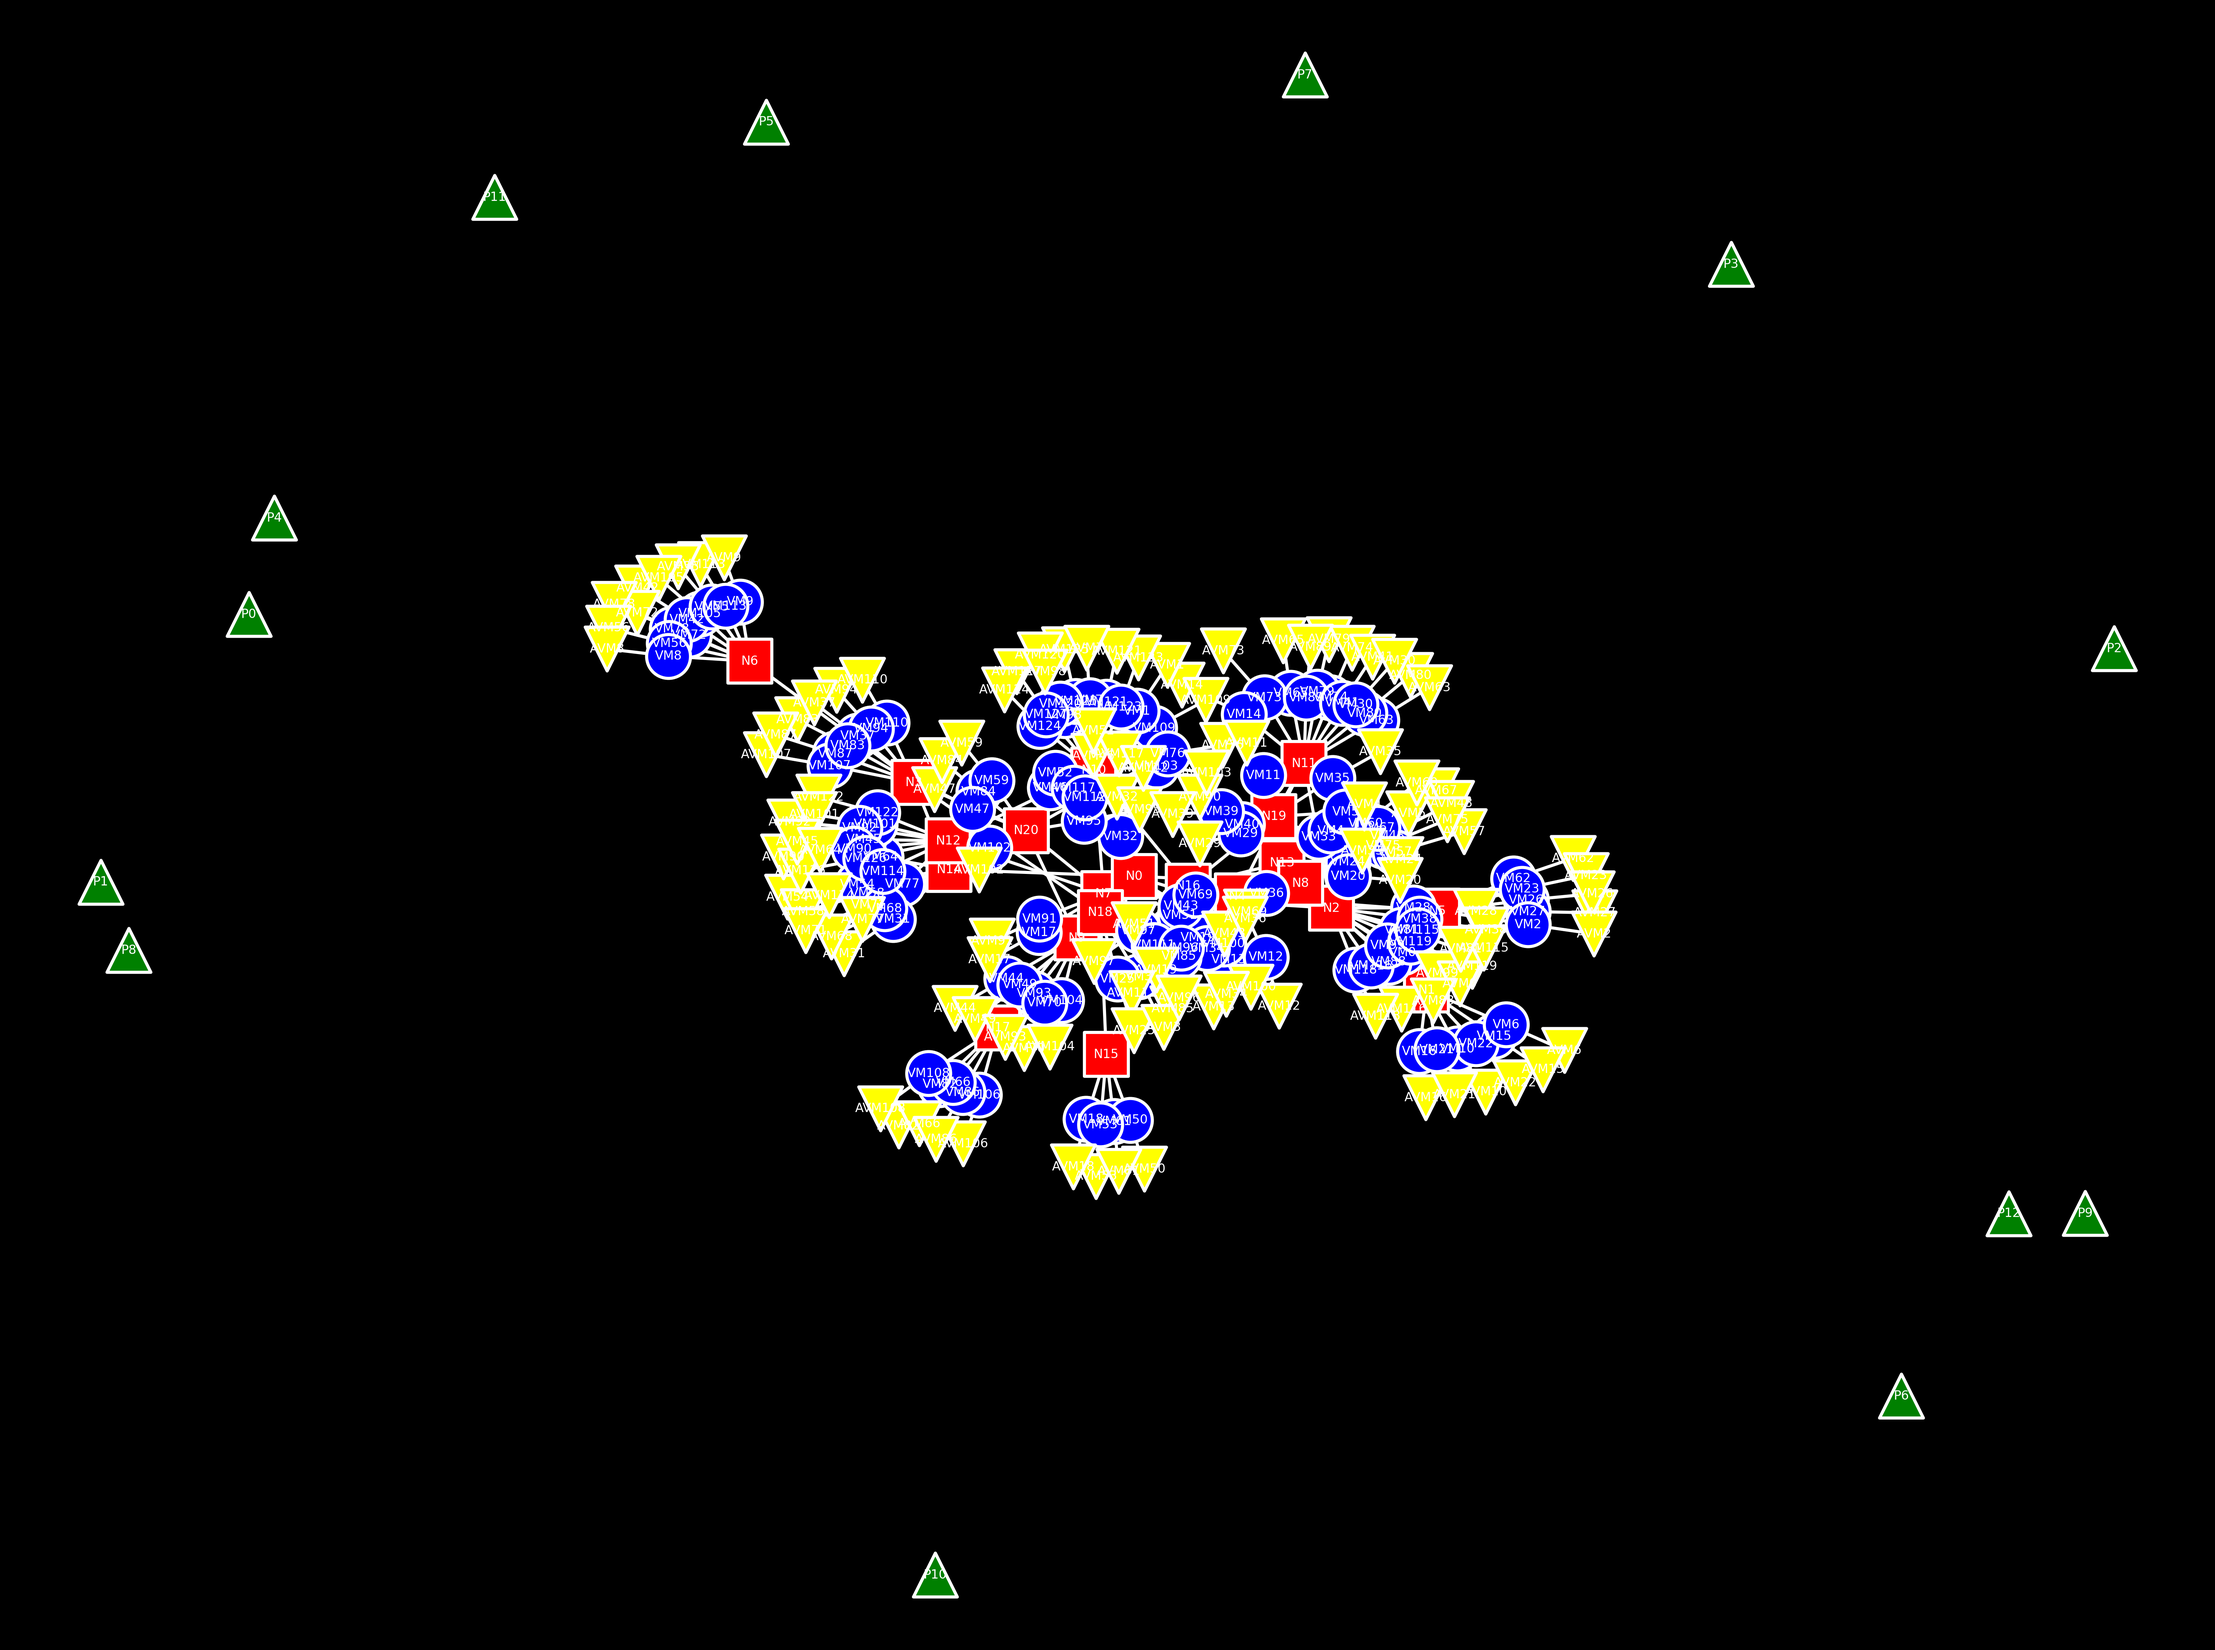
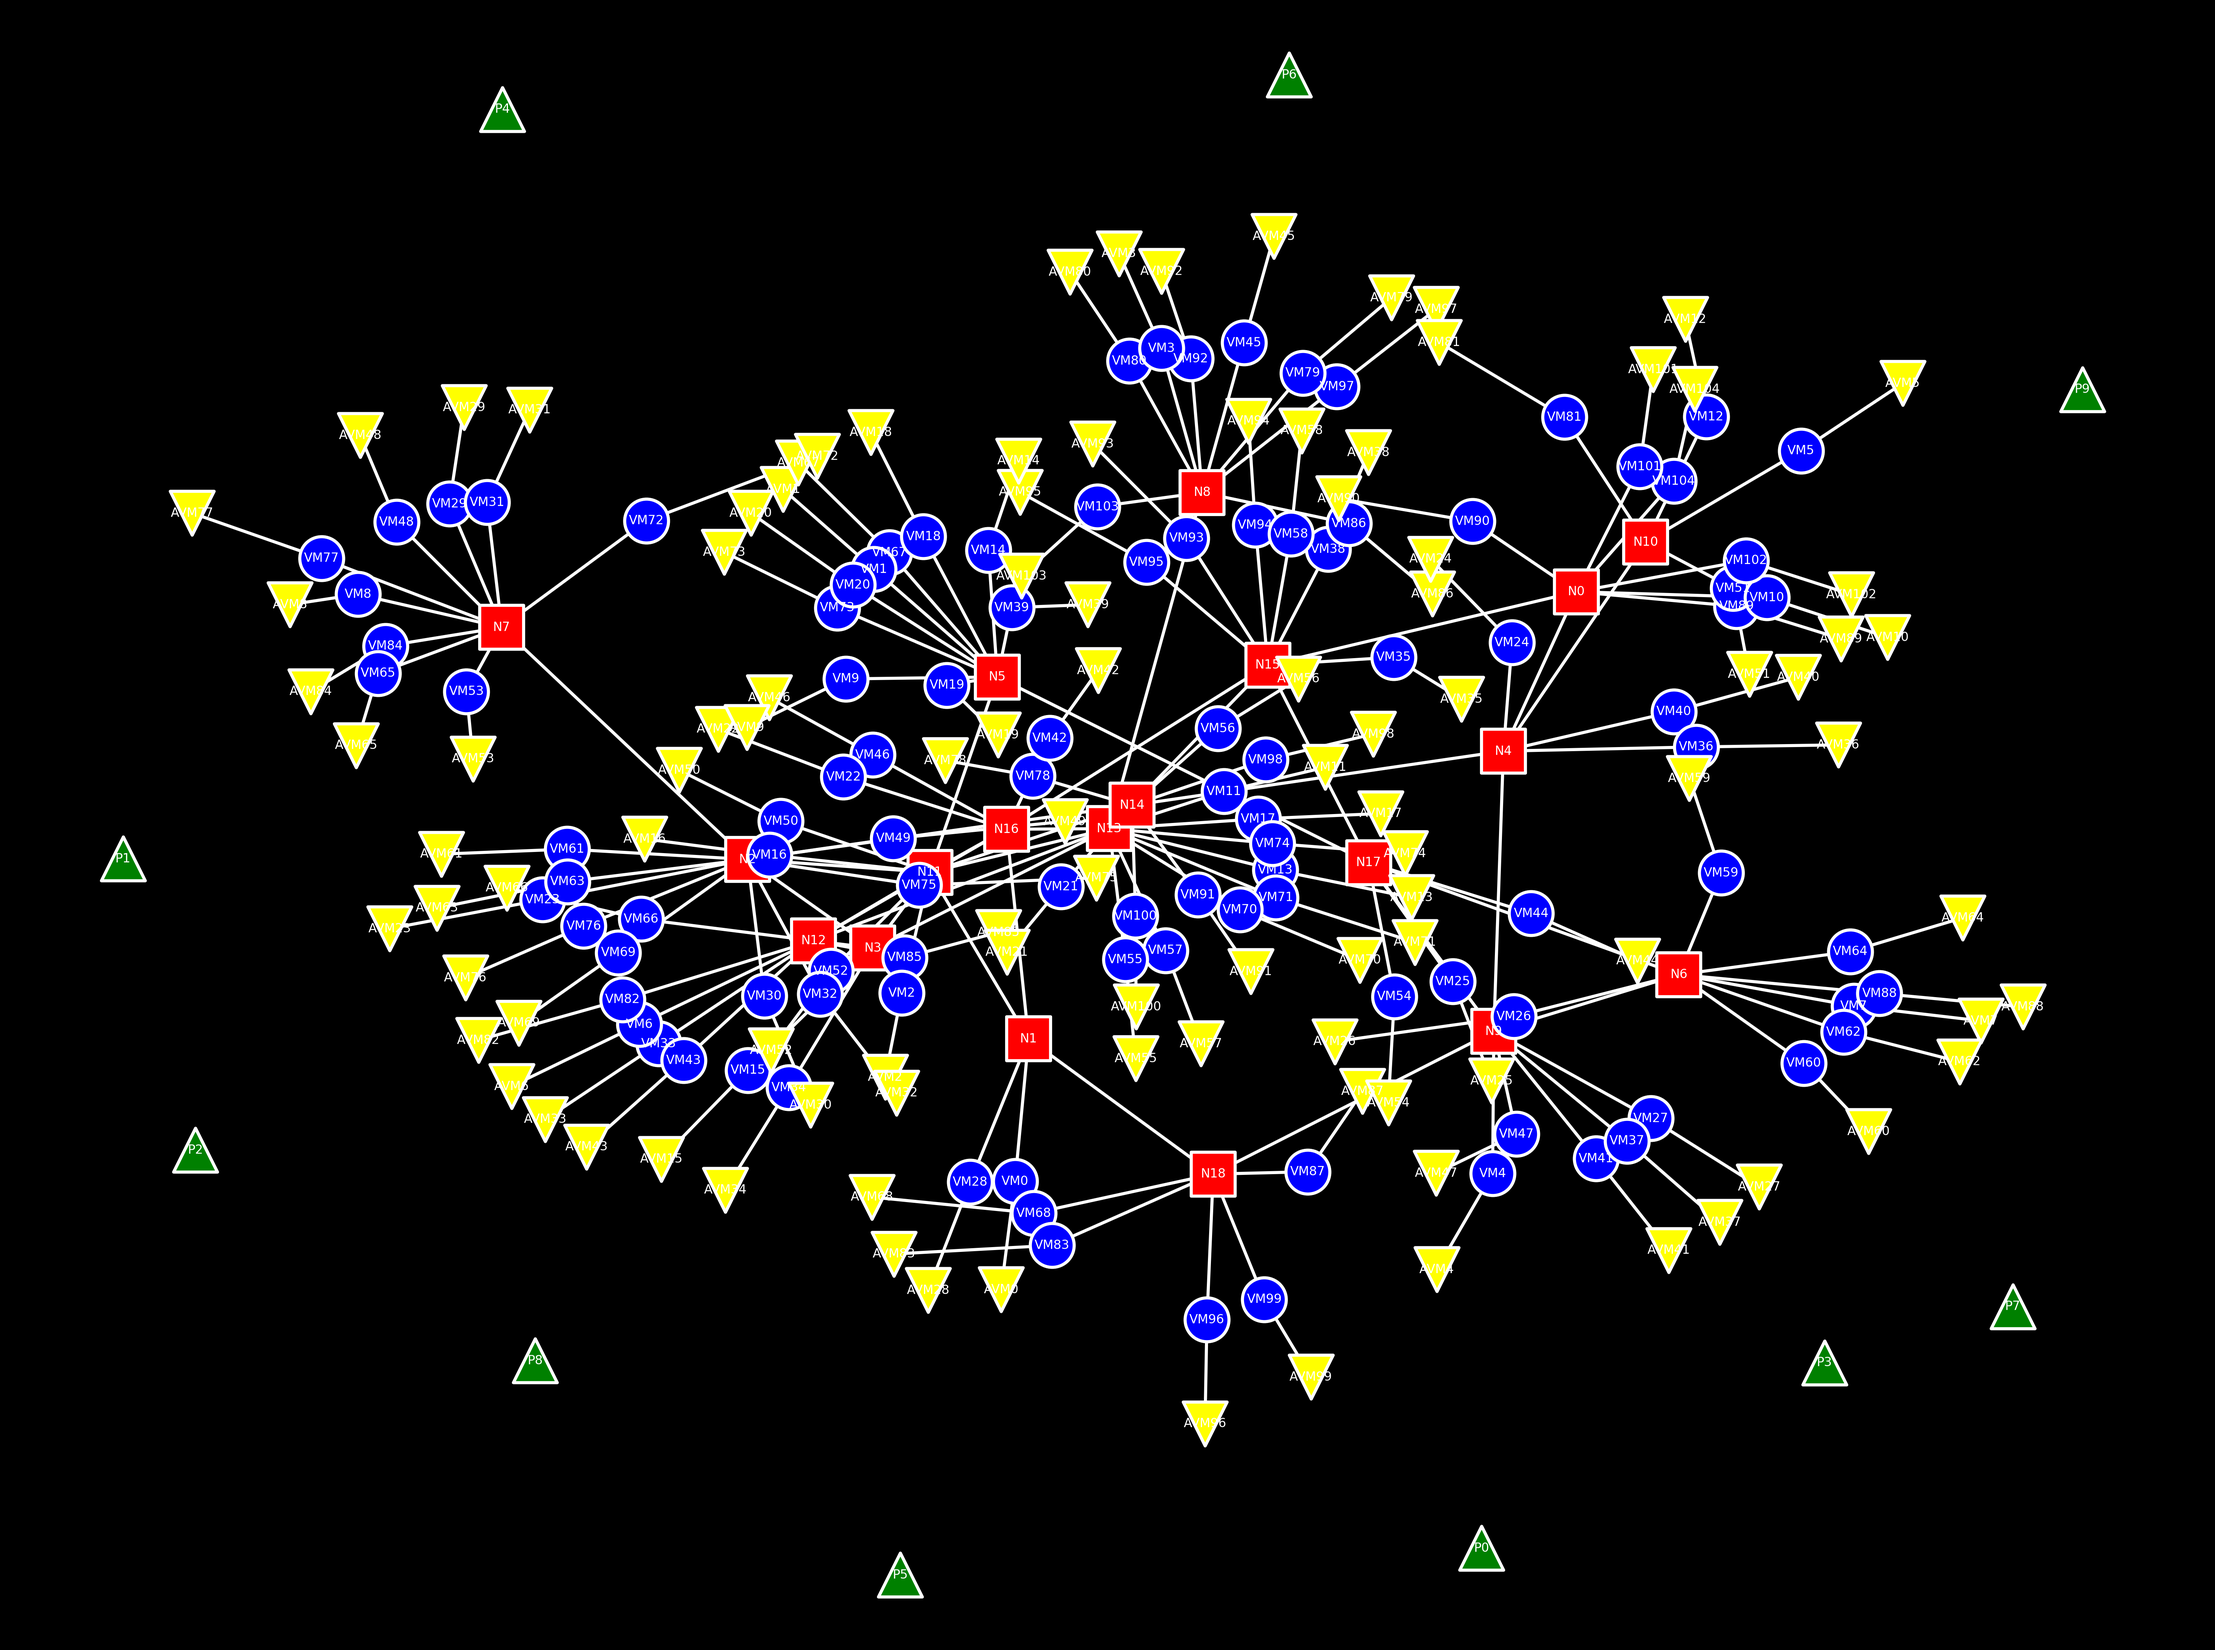
Halfway through refactoring.

diff --git a/mal_sampler.py b/mal_sampler.py
@@ -10,9 +10,11 @@ import matplotlib.pyplot as plt
 class Asset:
     def __init__(self, name: str):
         self.name = name
+        self.n_associated_assets = dict()
+        self.associated_assets = dict()
 
-    def log_probability(self):
-        return float('-inf')
+    def accepts(self, asset_type: str):
+        return len(self.associated_assets[asset_type]) < self.n_associated_assets[asset_type]
 
     def print(self):
         print(self.name)
@@ -21,20 +23,23 @@ class Asset:
 class Network(Asset):
     def __init__(self, name: str):
         super().__init__(name)
-        self.n_networks = 1 + binom(n=500, p=0.005).rvs()
-        self.networks = set()
-        self.n_vm_instances = 1 + binom(n=1000, p=0.005).rvs()
-        self.vm_instances = set()
+        # self.n_networks = 1 + binom(n=500, p=0.005).rvs()
+        # self.networks = set()
+        # self.n_vm_instances = 1 + binom(n=1000, p=0.005).rvs()
+        # self.vm_instances = set()
+        self.n_associated_assets['network'] = 1 + binom(n=500, p=0.005).rvs()
+        self.n_associated_assets['vm_instance'] = 1 + binom(n=1000, p=0.005).rvs()
+        self.associated_assets['network'] = set()
+        self.associated_assets['vm_instance'] = set()
 
-    def accepts_network(self):
-        return len(self.networks) < self.n_networks
+    # def accepts_network(self):
+    #     return len(self.networks) < self.n_networks
 
-    def accepts_vm_instance(self):
-        return len(self.vm_instances) < self.n_vm_instances
+    # def accepts_vm_instance(self):
+    #     return len(self.vm_instances) < self.n_vm_instances
 
     def print(self):
-        print(
-            f'Network: {self.name}. Associated networks: {[an.name for an in self.networks]}. Associated VM instances: {[ah.name for ah in self.vm_instances]}')
+        print(f"Network: {self.name}. Associated networks: {[an.name for an in self.associated_assets['network']]}. Associated VM instances: {[ah.name for ah in self.associated_assets['vm_instance']]}")
 
 
 class VMInstance(Asset):
@@ -55,21 +60,40 @@ class VMInstance(Asset):
         print(
             f'VMInstance: {self.name}. Networks: {[nw.name for nw in self.networks]}')
 
+
 class Principal(Asset):
     def __init__(self, name: str):
         super().__init__(name)
+        self.n_admins = 1
+        self.admins = set()
+
+    def accepts_admin(self):
+        return len(self.admins) < self.n_admins
+
 
 class Role(Asset):
     def __init__(self, name: str):
         super().__init__(name)
+        self.vm_instances = set()
+        self.principals = set()
+
 
 class ComputeOSAdminLogin(Role):
     def __init__(self, name: str):
         super().__init__(name)
+        self.n_vm_instances = 1
+        self.n_principal = 1 + binom(n=5, p=0.1).rvs()
+
+    def accepts_principal(self):
+        return len(self.principals) < self.n_principal
+
 
 class ComputeOSLogin(Role):
     def __init__(self, name: str):
         super().__init__(name)
+        self.n_vm_instances = binom(n=30, p=0.5).rvs()
+        self.n_principal = 1 + binom(n=5, p=0.1).rvs()
+
 
 class Model():
     def __init__(self):
@@ -97,34 +121,32 @@ class Model():
         return self.n_principals - len(self.principals)
 
     def associate_networks_to_networks(self):
-        available_networks = [
-            nw for nw in self.networks if nw.accepts_network()]
+        available_networks = [nw for nw in self.networks if nw.accepts('network')]
         if len(available_networks) < 2:
             print('Not enough networks to associate to each other')
             return len(available_networks)
         else:
             source_nw = random.choice(available_networks)
-            target_nw = random.choice(
-                [nw for nw in available_networks if nw != source_nw])
-            if source_nw in target_nw.networks or target_nw in source_nw.networks:
+            target_nw = random.choice([nw for nw in available_networks if nw != source_nw])
+            if source_nw in target_nw.associated_assets['network'] or target_nw in source_nw.associated_assets['network']:
                 print(f'Networks already associated. {len(available_networks)} networks left.')
                 return len(available_networks) - 1
             else:
-                source_nw.networks.add(target_nw)
-                target_nw.networks.add(source_nw)
+                source_nw.associated_assets['network'].add(target_nw)
+                target_nw.associated_assets['network'].add(source_nw)
                 print(
                     f'Associated {source_nw.name} to {target_nw.name}. {len(available_networks)} networks left.')
                 return len(available_networks)
 
     def associate_vm_instances_to_networks(self):
-        available_networks = [nw for nw in self.networks if nw.accepts_vm_instance()]
+        available_networks = [nw for nw in self.networks if nw.accepts('vm_instance')]
         if len(available_networks) == 0:
             print('Not enough networks to associate vm instances to')
         else:
             nw = random.choice(available_networks)
             vm_instance = VMInstance(f'VM{len(self.vm_instances)}')
             self.vm_instances.add(vm_instance)
-            nw.vm_instances.add(vm_instance)
+            nw.associated_assets['vm_instance'].add(vm_instance)
             vm_instance.networks.add(nw)
         return len(available_networks)
 
@@ -137,7 +159,20 @@ class Model():
             admin = ComputeOSAdminLogin(f'A{ah.name}')
             self.admins.add(admin)
             ah.admins.add(admin)
+            admin.vm_instances.add(ah)
         return len(available_vm_instances)
+
+    def associate_principals_to_admins(self):
+        available_admins = [a for a in self.admins if a.accepts_principal()]
+        available_principal = [p for p in self.principals if p.accepts_admin()]
+        if len(available_admins) == 0:
+            print('Not enough admins to associate principals to')
+        else:
+            a = random.choice(available_admins)
+            p = random.choice([p for p in self.principals if p not in a.principals])
+            a.principals.add(p)
+            p.admins.add(a)
+        return len(available_admins)
 
     def print(self):
         for nw in self.networks:
@@ -147,15 +182,15 @@ class Model():
         G = nx.Graph()
         for nw in self.networks:
             G.add_node(nw.name)
-            for an in nw.networks:
+            for an in nw.associated_assets['network']:
                 G.add_edge(nw.name, an.name)
-            for ah in nw.vm_instances:
+            for ah in nw.associated_assets['vm_instance']:
                 G.add_edge(nw.name, ah.name)
                 for a in ah.admins:
                     G.add_edge(ah.name, a.name)
         for p in self.principals:
             G.add_node(p.name)
-        pos = nx.spring_layout(G)
+        pos = nx.spring_layout(G, k=0.125, iterations=50)
         plt.figure(facecolor='black')
         nx.draw_networkx_nodes(G, pos, nodelist=[nw.name for nw in self.networks], node_shape='s', node_color='red', edgecolors='white', linewidths=0.5, node_size=50)
         nx.draw_networkx_nodes(G, pos, nodelist=[ah.name for ah in self.vm_instances], node_shape='o', node_color='blue', edgecolors='white', linewidths=0.5, node_size=50)
